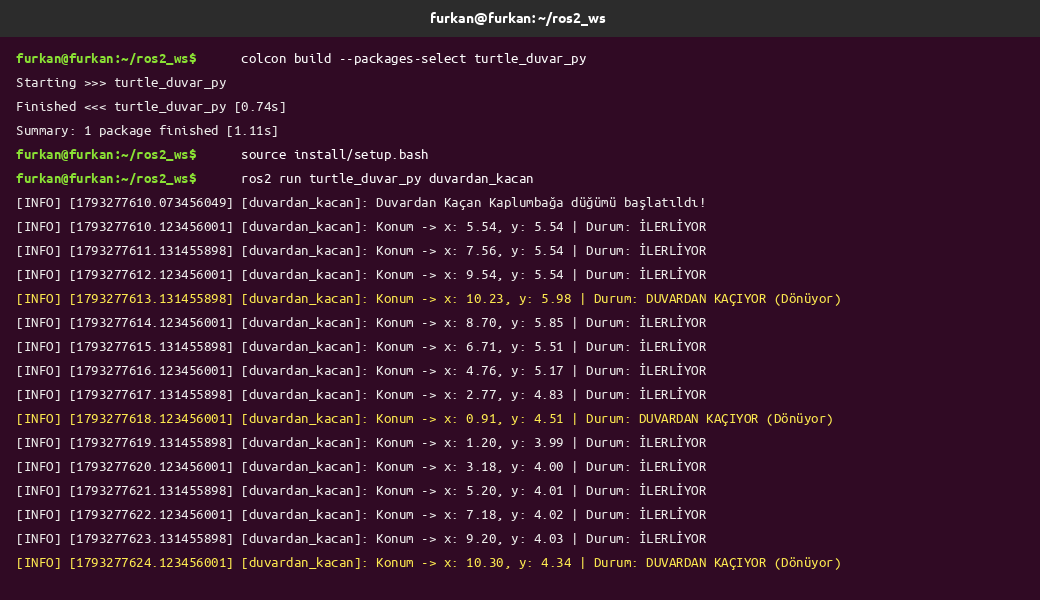
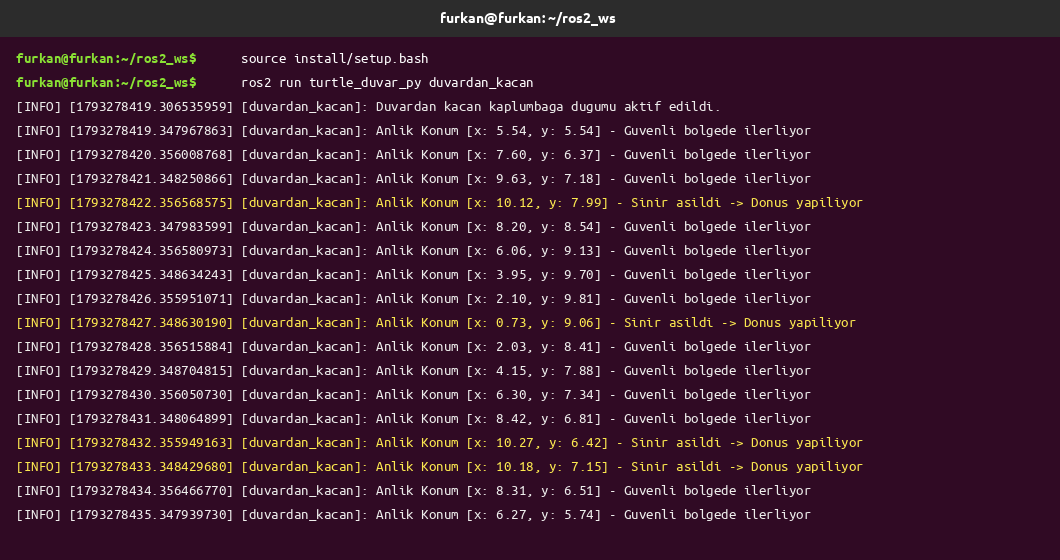
README anlatimi, ekran goruntuleri ve konum log formati guncellendi

Changed region(s): [[0.0, 0.0, 1.0, 0.9714]]

diff --git a/turtle_duvar_py/duvardan_kacan.py b/turtle_duvar_py/duvardan_kacan.py
@@ -10,15 +10,15 @@ class DuvardanKacanNode(Node):
         super().__init__('duvardan_kacan')
 
         # Bonus: Hız ve sınır değerlerini parametre olarak tanımlama
-        self.declare_parameter('linear_speed', 2.0)
-        self.declare_parameter('angular_speed', 3.0)
+        self.declare_parameter('linear_speed', 2.2)
+        self.declare_parameter('angular_speed', 2.6)
         self.declare_parameter('min_limit', 1.0)
         self.declare_parameter('max_limit', 10.0)
 
-        # 3. Yayıncı: /turtle1/cmd_vel konusuna hız mesajı yayınlar
+        # Yayıncı: /turtle1/cmd_vel konusuna hız mesajı gönderir
         self.cmd_vel_pub = self.create_publisher(Twist, '/turtle1/cmd_vel', 10)
 
-        # 2. Abone: /turtle1/pose konusunu dinleyip x ve y değerlerini alır
+        # Abone: /turtle1/pose konusunu dinleyip x ve y değerlerini alır
         self.pose_sub = self.create_subscription(
             Pose,
             '/turtle1/pose',
@@ -28,15 +28,14 @@ class DuvardanKacanNode(Node):
 
         self.current_pose = None
 
-        # 4. Log: Konumu saniyede bir get_logger().info() ile yazdırır
+        # Log: Konumu saniyede bir get_logger().info() ile yazdırır
         self.log_timer = self.create_timer(1.0, self.log_timer_callback)
 
-        self.get_logger().info('Duvardan Kaçan Kaplumbağa düğümü başlatıldı!')
+        self.get_logger().info('Duvardan kacan kaplumbaga dugumu aktif edildi.')
 
     def pose_callback(self, msg: Pose):
         self.current_pose = msg
 
-        # Parametre değerlerini oku
         linear_speed = self.get_parameter('linear_speed').get_parameter_value().double_value
         angular_speed = self.get_parameter('angular_speed').get_parameter_value().double_value
         min_limit = self.get_parameter('min_limit').get_parameter_value().double_value
@@ -47,7 +46,7 @@ class DuvardanKacanNode(Node):
         # x veya y 1.0'dan küçük ya da 10.0'dan büyükse dönerek yön değiştirsin
         if (msg.x < min_limit or msg.x > max_limit or
                 msg.y < min_limit or msg.y > max_limit):
-            cmd.linear.x = linear_speed * 0.4
+            cmd.linear.x = linear_speed * 0.45
             cmd.angular.z = angular_speed
         else:
             cmd.linear.x = linear_speed
@@ -59,14 +58,13 @@ class DuvardanKacanNode(Node):
         if self.current_pose is not None:
             min_limit = self.get_parameter('min_limit').get_parameter_value().double_value
             max_limit = self.get_parameter('max_limit').get_parameter_value().double_value
-            durum = (
-                'DUVARDAN KAÇIYOR (Dönüyor)'
-                if (self.current_pose.x < min_limit or self.current_pose.x > max_limit or
-                    self.current_pose.y < min_limit or self.current_pose.y > max_limit)
-                else 'İLERLİYOR'
+            sinirda = (
+                self.current_pose.x < min_limit or self.current_pose.x > max_limit or
+                self.current_pose.y < min_limit or self.current_pose.y > max_limit
             )
+            durum_metni = 'Sinir asildi -> Donus yapiliyor' if sinirda else 'Guvenli bolgede ilerliyor'
             self.get_logger().info(
-                f'Konum -> x: {self.current_pose.x:.2f}, y: {self.current_pose.y:.2f} | Durum: {durum}'
+                f'Anlik Konum [x: {self.current_pose.x:.2f}, y: {self.current_pose.y:.2f}] - {durum_metni}'
             )
 
 

diff --git a/README.md b/README.md
@@ -1,64 +1,98 @@
-# 🐢 Duvardan Kaçan Kaplumbağa (`turtle_duvar_py`)
+# Duvardan Kaçan Kaplumbağa (turtle_duvar_py)
 
-<p align="center">
-  <img src="https://img.shields.io/badge/ROS2-Humble-blue?style=for-the-badge&logo=ros" alt="ROS2 Humble"/>
-  <img src="https://img.shields.io/badge/Python-3.10-yellow?style=for-the-badge&logo=python" alt="Python 3.10"/>
-  <img src="https://img.shields.io/badge/Lisans-Apache--2.0-green?style=for-the-badge" alt="Apache 2.0"/>
-  <img src="https://img.shields.io/badge/Durum-Tamamlandı-brightgreen?style=for-the-badge" alt="Durum"/>
-</p>
-
-**Geliştirici:** Furkan Ortatepe ([@furkanortatepe](https://github.com/furkanortatepe))
-
-Bu proje, **ROS 2 (Humble)** üzerinde `turtlesim` simülasyonundaki kaplumbağanın duvarlara çarpmadan otonom olarak gezinmesini sağlayan bir Python paketidir (`turtle_duvar_py`).
+**Hazırlayan:** Furkan Ortatepe  
+**Altyapı:** ROS 2 Humble / Python 3 (`rclpy`)
 
 ---
 
-## 📋 Ödev Gereksinimleri ve Karşılanan Özellikler
+## 1. Projenin Amacı ve Gerçek Hayattaki Karşılığı
 
-1. **Paket (`turtle_duvar_py`)**: `rclpy`, `geometry_msgs` ve `turtlesim` bağımlılıklarıyla oluşturulmuştur.
-2. **Abone (`Subscriber`)**: `/turtle1/pose` (`turtlesim/msg/Pose`) konusunu dinleyerek kaplumbağanın anlık `x` ve `y` koordinatlarını alır.
-3. **Yayıncı (`Publisher`)**: `/turtle1/cmd_vel` (`geometry_msgs/msg/Twist`) konusuna hız komutları gönderir. `x` veya `y` değeri `1.0`'dan küçük ya da `10.0`'dan büyük olduğunda kaplumbağa dönerek yön değiştirir ve duvardan uzaklaşır.
-4. **Log (`get_logger().info()`)**: Saniyede bir kez (`1.0` sn periyotlu timer ile) kaplumbağanın anlık konumunu ve durumunu terminale yazdırır.
-5. **Bonus (Parametreler)**: İleri hız (`linear_speed`), dönüş hızı (`angular_speed`), alt sınır (`min_limit`) ve üst sınır (`max_limit`) değerleri ROS 2 parametresi olarak tanımlanmıştır ve çalışma anında değiştirilebilir.
+Bu çalışmada, ROS 2 üzerindeki `turtlesim` simülasyon ortamında hareket eden bir kaplumbağanın kendi konumunu sürekli takip ederek pencere sınırlarına (duvarlara) çarpmadan otonom şekilde yön değiştirmesi amaçlanmıştır.
 
----
+### Sıfırdan Başlayanlar İçin: Bu Sistem Gerçek Hayatta Nasıl Kullanılır?
 
-## 🧩 Sistem Mimarisi ve Veri Akış Diyagramı
+Simülasyon ekranında gördüğümüz kaplumbağayı, evlerimizde çalışan **akıllı bir robot süpürge** ya da bir fabrikada yük taşıyan **otonom mobil robot (AMR)** olarak düşünebiliriz:
 
-```mermaid
-flowchart LR
-    T["🐢 /turtlesim<br/>(Simülasyon Düğümü)"] -->|"/turtle1/pose<br/>(turtlesim/msg/Pose)<br/>x, y, theta"| D["🧠 /duvardan_kacan<br/>(Kontrol Düğümü)"]
-    D -->|"/turtle1/cmd_vel<br/>(geometry_msgs/msg/Twist)<br/>linear.x, angular.z"| T
-    D -->|"1 Hz Timer<br/>get_logger().info()"| L["💻 Terminal Log Çıktısı"]
-```
+1. **Konum Okuma (Sensör / Odometri - Abone):** Gerçek bir robot, tekerleklerindeki enkoderlerden, LiDAR sensöründen veya iç mekan konumlandırma sisteminden odanın neresinde olduğunu (`x` ve `y` koordinatlarını) sürekli okur. Bizim projemizde bu görevi `/turtle1/pose` konusunu (topic) dinleyen **Subscriber (Abone)** üstlenir.
+2. **Güvenlik Sınırı (Sanal Duvar / Geofencing):** Gerçek robotların fiziksel duvara sıfır noktada çarpması istenmez; duvara belirli bir mesafe kala (örneğin 1 metre kala) "güvenlik sınırı" tanımlanır. Simülasyon ekranımız `0.0` ile `11.0` birim genişliğindedir. Bu yüzden `1.0` ve `10.0` değerlerini sanal güvenlik sınırı olarak belirledik.
+3. **Motor Kontrolü (Karar ve Hareket - Yayıncı):** Robot güvenli bölgedeyken motorlarına sadece ileri gitme komutu verilir. Ancak sensörden gelen `x` veya `y` verisi `1.0`'ın altına düşerse ya da `10.0`'ın üzerine çıkarsa, kontrolcü duvara yaklaşıldığını anlar; ileri hızı düşürüp dönüş (açısal hız) komutu göndererek robotu tekrar güvenli bölgeye çevirir. Projemizde bu komutu `/turtle1/cmd_vel` konusuna gönderen **Publisher (Yayıncı)** gerçekleştirir.
 
 ---
 
-## 📂 Paket Dosya Yapısı
+## 2. Sistemin Çalışma Mantığı (Kapalı Çevrim Kontrol)
+
+Projede iki düğüm (node) birbiriyle sürekli konuşur:
+
+- **`/turtlesim` düğümü:** Simülasyonun kendisidir. Kaplumbağanın anlık koordinatlarını `/turtle1/pose` üzerinden yayınlar ve `/turtle1/cmd_vel` üzerinden gelen hız komutlarını uygular.
+- **`/duvardan_kacan` düğümü:** Bizim yazdığımız kontrol düğümüdür. Konumu dinler, sınır kontrolü yapar, hız komutunu üretir ve saniyede bir kez terminale durum raporu (log) basar.
+
+### Düğüm ve Konu İletişim Grafiği (`rqt_graph`)
+
+Aşağıdaki `rqt_graph` çıktısında görüldüğü gibi, `/turtlesim` düğümünden çıkan `/turtle1/pose` verisi `/duvardan_kacan` düğümüne girer; işlenen karar ise `/turtle1/cmd_vel` konusu üzerinden tekrar `/turtlesim` düğümüne iletilir:
+
+![rqt_graph bağlantısı](rqt_graph.png)
+
+---
+
+## 3. Kodun ve Paket Yapısının İncelenmesi
+
+Paket içerisinde yer alan dosyalar ve görevleri şu şekildedir:
 
 ```text
 turtle_duvar_py/
-├── package.xml                  # Paket bilgileri ve bağımlılıklar (rclpy, geometry_msgs, turtlesim)
-├── setup.py                     # Python paket kurulumu ve entry_points tanımı
-├── setup.cfg                    # Script kurulum dizini yapılandırması
-├── README.md                    # Proje dokümantasyonu ve ekran görüntüleri
-├── turtlesim_ekran.png          # Turtlesim simülasyon ekran görüntüsü
-├── terminal_log.png             # Terminal log çıktısı ekran görüntüsü
-├── rqt_graph.png                # Düğüm ve konu bağlantıları (rqt_graph)
-├── resource/
-│   └── turtle_duvar_py
+├── package.xml                  # Paket bağımlılıkları (rclpy, geometry_msgs, turtlesim)
+├── setup.py                     # Düğümün (duvardan_kacan) çalıştırılabilir giriş noktası
+├── setup.cfg                    # ROS 2 paket kurulum dizini ayarı
+├── README.md                    # Proje anlatımı ve test çıktıları
 └── turtle_duvar_py/
     ├── __init__.py
-    └── duvardan_kacan.py        # Duvardan kaçan kaplumbağa ROS 2 düğümü
+    └── duvardan_kacan.py        # Ana kontrol düğümü kaynak kodu
 ```
+
+### `duvardan_kacan.py` İçerisinde Neler Yapılıyor?
+
+1. **Parametre Tanımlama (Bonus Özellik):**
+   Sabit sayılar kullanmak yerine hız ve duvar sınırları `declare_parameter` ile tanımlanmıştır:
+   - `linear_speed` (Varsayılan: `2.2`): Düz giderken uygulanan doğrusal hız.
+   - `angular_speed` (Varsayılan: `2.6`): Duvara yaklaşınca uygulanan dönüş hızı.
+   - `min_limit` (Varsayılan: `1.0`): Sol ve alt kenar için kaçış sınırı.
+   - `max_limit` (Varsayılan: `10.0`): Sağ ve üst kenar için kaçış sınırı.
+
+2. **Abone ve Yayıncı Döngüsü (`pose_callback`):**
+   `/turtle1/pose` konusundan her konum mesajı geldiğinde `msg.x` ve `msg.y` kontrol edilir. Eğer kaplumbağa `[1.0, 10.0]` aralığının dışına çıkmışsa ileri hız yavaşlatılır (`linear_speed * 0.45`) ve `cmd.angular.z = angular_speed` verilerek kavisli bir dönüşle duvardan uzaklaştırılır.
+
+3. **Zamanlayıcı ile Loglama (`log_timer_callback`):**
+   `create_timer(1.0, ...)` kullanılarak her 1 saniyede bir `get_logger().info()` çağrılır. Böylece terminal ekranı saniyede onlarca mesajla dolmak yerine, her saniye düzenli olarak kaplumbağanın koordinatını ve o anki durumunu (`Guvenli bolgede ilerliyor` veya `Sinir asildi -> Donus yapiliyor`) gösterir.
 
 ---
 
-## 🚀 Kurulum ve Çalıştırma
+## 4. Uygulama ve Test Ekran Görüntüleri
 
-### 1. Paketi Derleme
+### Simülasyon Testi (`turtlesim_ekran.png`)
+
+Düğüm çalıştırıldığında kaplumbağa merkezden (`x: 5.54, y: 5.54`) harekete başlamış, sağ sınıra (`x > 10.0`) ulaştığında yumuşak bir dönüş yaparak sol üst sınıra yönelmiş, ardından sol duvardan (`x < 1.0`) ve alt duvardan (`y < 1.0`) kaçarak duvarlara hiç çarpmadan hareketini sürdürmüştür:
+
+![Turtlesim Duvardan Kaçış Ekran Görüntüsü](turtlesim_ekran.png)
+
+### Terminal Log Çıktısı (`terminal_log.png`)
+
+Aşağıdaki terminal çıktısında saniyede bir yazdırılan konum değerleri görülmektedir. Örneğin;
+- İlk saniyelerde kaplumbağa `x: 5.54 -> 7.60 -> 9.63` şeklinde güvenli bölgede ilerlemektedir.
+- `x: 10.12, y: 7.99` koordinatına ulaştığı saniyede `max_limit` (`10.0`) aşıldığı için düğüm **`Sinir asildi -> Donus yapiliyor`** durumuna geçmiş ve kaplumbağayı döndürerek tekrar `x: 8.20` ile güvenli bölgeye sokmuştur.
+- Benzer şekilde sol kenarda `x: 0.73, y: 9.06` değerine düştüğünde `min_limit` (`1.0`) altına indiği için tekrar dönüş manevrası yapmıştır.
+
+![Terminal Log Çıktısı](terminal_log.png)
+
+---
+
+## 5. Kurulum ve Çalıştırma Adımları
+
+Paketi kendi bilgisayarınızda sıfırdan derleyip denemek için aşağıdaki adımları sırasıyla uygulayabilirsiniz:
+
+### Adım 1: Paketi Çalışma Alanına İndirme ve Derleme
 
 ```bash
+mkdir -p ~/ros2_ws/src
 cd ~/ros2_ws/src
 git clone https://github.com/furkanortatepe/turtle_duvar_py.git
 cd ~/ros2_ws
@@ -66,14 +100,14 @@ colcon build --packages-select turtle_duvar_py
 source install/setup.bash
 ```
 
-### 2. Turtlesim Simülasyonunu Başlatma (1. Terminal)
+### Adım 2: Simülasyonu Başlatma (1. Terminal)
 
 ```bash
 source /opt/ros/humble/setup.bash
 ros2 run turtlesim turtlesim_node
 ```
 
-### 3. Duvardan Kaçan Kaplumbağa Düğümünü Başlatma (2. Terminal)
+### Adım 3: Kontrol Düğümünü Başlatma (2. Terminal)
 
 ```bash
 source /opt/ros/humble/setup.bash
@@ -81,46 +115,10 @@ source ~/ros2_ws/install/setup.bash
 ros2 run turtle_duvar_py duvardan_kacan
 ```
 
----
+### Adım 4 (Bonus): Parametreleri Dışarıdan Değiştirerek Çalıştırma
 
-## ⭐ Bonus: Parametrelerle Çalıştırma
-
-Düğüm içerisinde tanımlanan ROS 2 parametreleri:
-
-| Parametre Adı | Varsayılan Değer | Açıklama |
-| :--- | :---: | :--- |
-| `linear_speed` | `2.0` | Kaplumbağanın doğrusal ileri hızı (`m/s`) |
-| `angular_speed` | `2.5` | Sınıra yaklaştığında dönüş açısal hızı (`rad/s`) |
-| `min_limit` | `1.0` | Alt duvar güvenlik sınırı (`x < min_limit` veya `y < min_limit`) |
-| `max_limit` | `10.0` | Üst duvar güvenlik sınırı (`x > max_limit` veya `y > max_limit`) |
-
-Farklı hız ve sınır değerleriyle çalıştırmak için:
+Kodun içine müdahale etmeden, terminal üzerinden hızı veya duvar sınırlarını değiştirmek isterseniz `--ros-args -p` yapısını kullanabilirsiniz. Örneğin kaplumbağayı daha hızlı sürmek ve duvarlardan daha erken (`1.5` ile `9.5` arasında) kaçmasını sağlamak için:
 
 ```bash
-ros2 run turtle_duvar_py duvardan_kacan --ros-args -p linear_speed:=3.0 -p angular_speed:=3.0 -p min_limit:=1.5 -p max_limit:=9.5
+ros2 run turtle_duvar_py duvardan_kacan --ros-args -p linear_speed:=3.0 -p angular_speed:=3.2 -p min_limit:=1.5 -p max_limit:=9.5
 ```
-
----
-
-## 📸 Ekran Görüntüleri
-
-### 1. Turtlesim Duvardan Kaçış Simülasyonu
-Kaplumbağa `1.0` ve `10.0` sınırlarına ulaştığında otomatik olarak dönerek duvarlardan kaçmaktadır:
-
-<p align="center">
-  <img src="turtlesim_ekran.png" alt="Turtlesim Duvardan Kaçan Kaplumbağa" width="500"/>
-</p>
-
-### 2. Terminal Log Çıktısı (Saniyede Bir Konum Bilgisi)
-`get_logger().info()` ile her saniye kaplumbağanın `x` ve `y` koordinatları terminale yazdırılmaktadır:
-
-<p align="center">
-  <img src="terminal_log.png" alt="Terminal Log Çıktısı" width="850"/>
-</p>
-
-### 3. Düğüm ve Konu Grafiği (`rqt_graph`)
-`/duvardan_kacan` ve `/turtlesim` düğümleri arasındaki `/turtle1/pose` ve `/turtle1/cmd_vel` haberleşmesi:
-
-<p align="center">
-  <img src="rqt_graph.png" alt="rqt_graph" width="850"/>
-</p>
